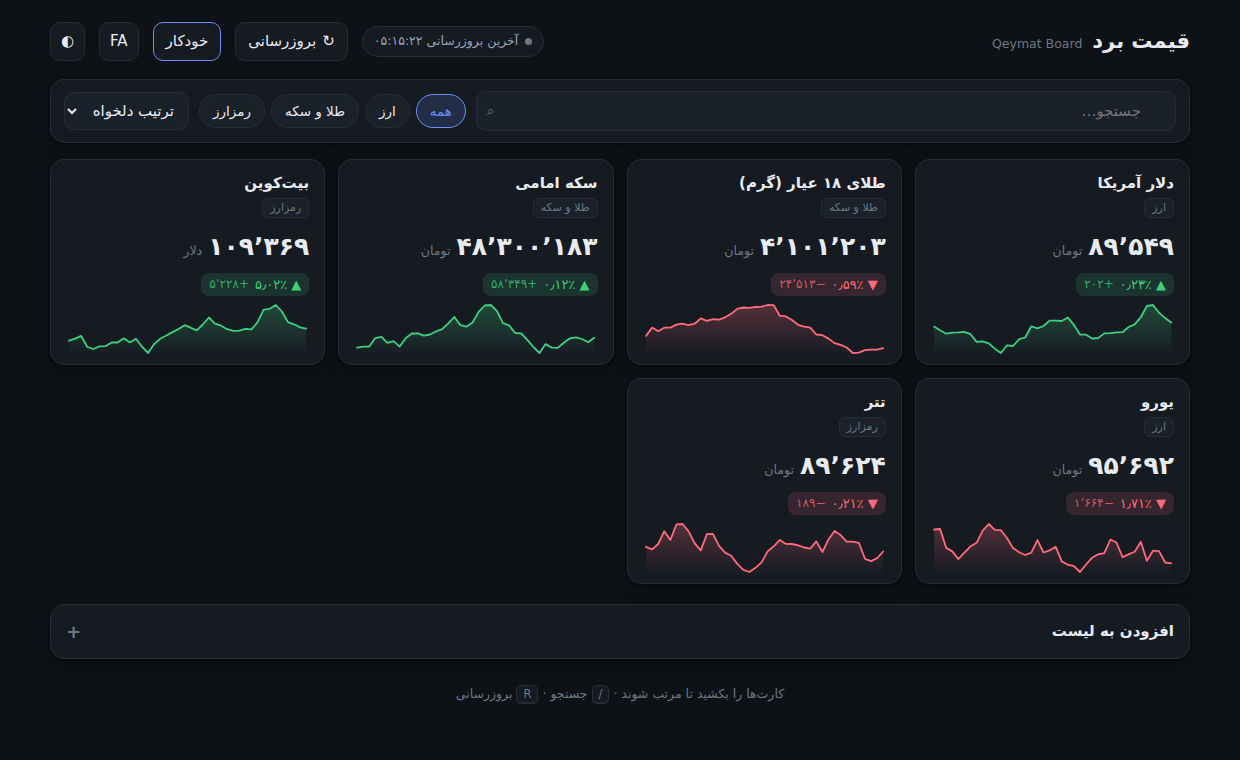
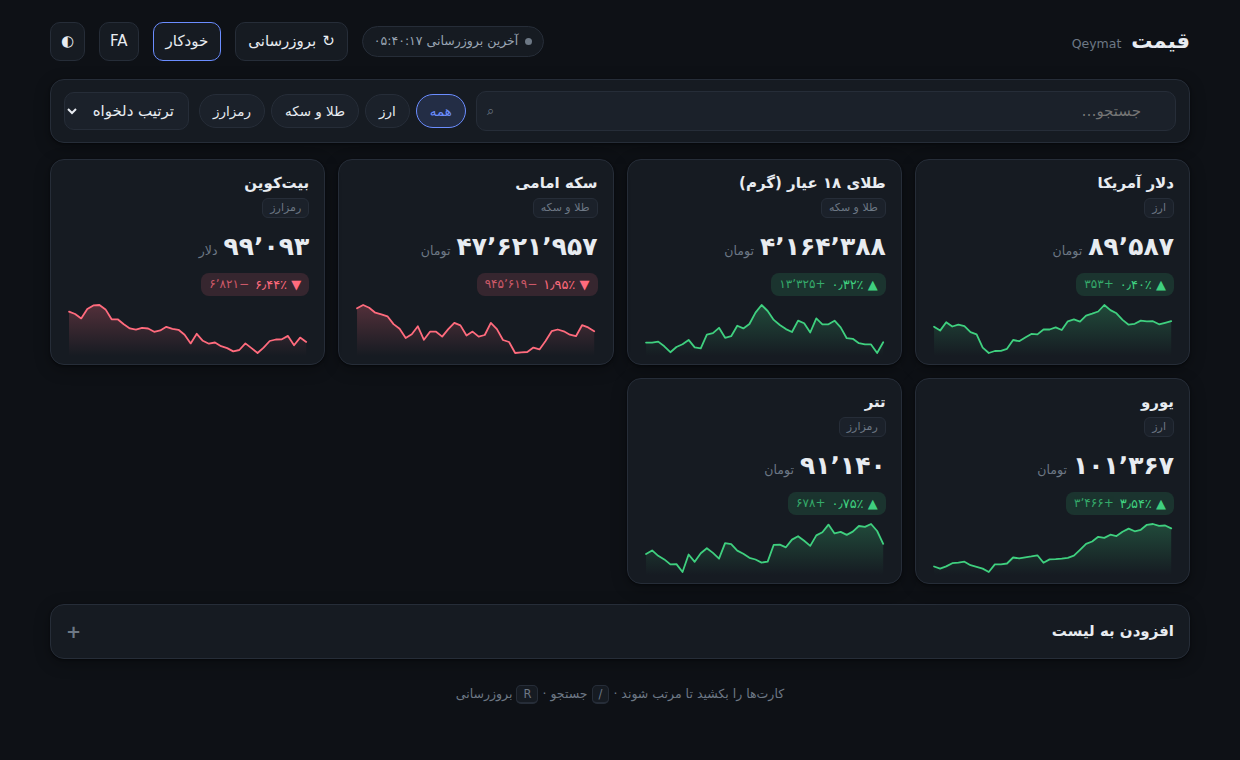
Make the board usable on touch, and align branding to «قیمت» / Qeymat
The card controls were revealed on :hover and sat at opacity 0, which
means that on a touch screen the remove button was invisible and
unreachable. Reordering had the same problem from the other direction:
HTML5 drag events never fire on touch, so the only way to arrange the
board was a pointer.

Under @media (hover: none) the controls are now always visible, tap
targets are 40x40, and reordering is offered as explicit up/down buttons
that move an asset within the watchlist. Dragging is unchanged where a
real pointer exists, and the footer shows whichever hint applies rather
than advertising keyboard shortcuts to a phone.

Branding is now «قیمت» / Qeymat rather than the ad-hoc "Qeymat Board",
in the title, the header, and both language dictionaries.

Verified at 390x664 with a coarse pointer: hover:none matches, the
up/down controls render at 40x40, reorder and remove both work by tap,
state survives a reload, and there is no horizontal overflow. Desktop
behaviour re-checked in the same run — controls still rest at opacity 0
and the up/down buttons stay display:none. No console or page errors in
either mode.

diff --git a/qeymat-board/index.html b/qeymat-board/index.html
@@ -3,7 +3,7 @@
 <head>
 <meta charset="utf-8">
 <meta name="viewport" content="width=device-width, initial-scale=1">
-<title>قیمت برد — Qeymat Board</title>
+<title>قیمت — Qeymat</title>
 <style>
   :root{
     --bg:#f4f5f7; --panel:#ffffff; --panel-2:#fafbfc; --line:#e3e6ea;
@@ -104,12 +104,29 @@
     display:inline-block;margin-top:4px;font-size:11px;color:var(--ink-3);
     background:var(--panel-2);border:1px solid var(--line);border-radius:6px;padding:1px 7px;
   }
-  .card .remove{
-    margin-inline-start:auto;background:none;border:0;color:var(--ink-3);cursor:pointer;
-    font-size:19px;line-height:1;padding:2px 5px;border-radius:7px;opacity:0;transition:.15s;
+  .card .ctl{margin-inline-start:auto;display:flex;align-items:center;gap:2px}
+  .card .ctl button{
+    background:none;border:0;color:var(--ink-3);cursor:pointer;line-height:1;
+    border-radius:7px;transition:.15s;opacity:0;
   }
-  .card:hover .remove,.card .remove:focus{opacity:1}
+  .card .remove{font-size:19px;padding:2px 5px}
+  .card .mv{display:none;font-size:14px;padding:4px 6px}
+  .card:hover .ctl button,.card .ctl button:focus-visible{opacity:1}
   .card .remove:hover{color:var(--down);background:var(--down-soft)}
+  .card .mv:hover{color:var(--accent);background:var(--accent-soft)}
+
+  /* Touch / no-hover pointers: hover-revealed controls are unreachable, and
+     HTML5 drag never fires — so show the controls and offer ↑ ↓ instead. */
+  @media (hover: none){
+    .card .ctl button{opacity:.6}
+    .card .ctl button:active{opacity:1}
+    .card.reorderable .mv{display:inline-flex}
+    .card .ctl button{min-width:40px;min-height:40px;display:inline-flex;align-items:center;justify-content:center}
+    .card .mv{min-width:40px}
+    .btn,.chip{min-height:40px}
+    .desktop-only{display:none}
+  }
+  @media (hover: hover){ .touch-only{display:none} }
   .price{display:flex;align-items:baseline;gap:6px;font-variant-numeric:tabular-nums}
   .price .num{font-size:25px;font-weight:700;letter-spacing:-.02em}
   .price .unit{font-size:12.5px;color:var(--ink-3)}
@@ -154,8 +171,8 @@
 
   <header class="top">
     <div class="brand">
-      <h1 id="ttl">قیمت برد</h1>
-      <span class="sub" id="sub">Qeymat Board</span>
+      <h1 id="ttl">قیمت</h1>
+      <span class="sub" id="sub">Qeymat</span>
     </div>
     <div class="stamp"><span class="dot" id="dot"></span><span id="stamp" aria-live="polite">—</span></div>
     <button class="btn" id="refresh" title="R">↻ <span data-i="refresh">بروزرسانی</span></button>
@@ -181,9 +198,12 @@
   </details>
 
   <footer class="tip">
-    <span data-i="tip">کارتها را بکشید تا مرتب شوند</span> ·
-    <kbd>/</kbd> <span data-i="tipSearch">جستجو</span> ·
-    <kbd>R</kbd> <span data-i="tipRefresh">بروزرسانی</span>
+    <span class="desktop-only">
+      <span data-i="tip">کارتها را بکشید تا مرتب شوند</span> ·
+      <kbd>/</kbd> <span data-i="tipSearch">جستجو</span> ·
+      <kbd>R</kbd> <span data-i="tipRefresh">بروزرسانی</span>
+    </span>
+    <span class="touch-only" data-i="tipTouch">با دکمههای ↑ ↓ روی هر کارت ترتیب را تغییر دهید</span>
   </footer>
 </div>
 
@@ -217,20 +237,24 @@ const HISTORY_LEN = 40;
    ============================================================ */
 const T = {
   fa:{
-    brand:'قیمت برد', sub:'Qeymat Board', refresh:'بروزرسانی', auto:'خودکار',
+    brand:'قیمت', sub:'Qeymat', refresh:'بروزرسانی', auto:'خودکار',
     search:'جستجو…', addTitle:'افزودن به لیست', allin:'همهی موارد در لیست هستند',
     empty:'لیست خالی است — از پایین چیزی اضافه کنید',
     tip:'کارتها را بکشید تا مرتب شوند', tipSearch:'جستجو', tipRefresh:'بروزرسانی',
+    tipTouch:'با دکمههای ↑ ↓ روی هر کارت ترتیب را تغییر دهید',
+    moveUp:'انتقال به بالا', moveDown:'انتقال به پایین',
     groups:{ all:'همه', currency:'ارز', gold:'طلا و سکه', crypto:'رمزارز' },
     sorts:{ custom:'ترتیب دلخواه', name:'نام', changeDesc:'بیشترین رشد', changeAsc:'بیشترین افت' },
     units:{ toman:'تومان', usd:'دلار' }, pct:'٪',
     updated:'آخرین بروزرسانی', never:'هنوز بروزرسانی نشده', remove:'حذف',
   },
   en:{
-    brand:'Qeymat Board', sub:'قیمت برد', refresh:'Refresh', auto:'Auto',
+    brand:'Qeymat', sub:'قیمت', refresh:'Refresh', auto:'Auto',
     search:'Search…', addTitle:'Add to watchlist', allin:'Everything is on the board',
     empty:'Watchlist is empty — add something below',
     tip:'Drag cards to reorder', tipSearch:'search', tipRefresh:'refresh',
+    tipTouch:'Use the ↑ ↓ buttons on each card to reorder',
+    moveUp:'Move up', moveDown:'Move down',
     groups:{ all:'All', currency:'Currency', gold:'Gold & Coin', crypto:'Crypto' },
     sorts:{ custom:'Custom order', name:'Name', changeDesc:'Top gainers', changeAsc:'Top losers' },
     units:{ toman:'Toman', usd:'USD' }, pct:'%',
@@ -456,13 +480,17 @@ function cardHTML(id){
   const draggable = state.prefs.sort === 'custom';
 
   return `
-  <article class="card" data-id="${id}" ${draggable ? 'draggable="true"' : ''}>
+  <article class="card${draggable ? ' reorderable' : ''}" data-id="${id}" ${draggable ? 'draggable="true"' : ''}>
     <div class="row1">
       <div>
         <div class="title">${name(a)}</div>
         <span class="badge">${t().groups[a.group]}</span>
       </div>
-      <button class="remove" data-remove="${id}" title="${t().remove}" aria-label="${t().remove} ${name(a)}">×</button>
+      <div class="ctl">
+        <button class="mv" data-move="${id}|-1" title="${t().moveUp}" aria-label="${t().moveUp} ${name(a)}">↑</button>
+        <button class="mv" data-move="${id}|1"  title="${t().moveDown}" aria-label="${t().moveDown} ${name(a)}">↓</button>
+        <button class="remove" data-remove="${id}" title="${t().remove}" aria-label="${t().remove} ${name(a)}">×</button>
+      </div>
     </div>
     <div class="price">
       <span class="num" data-num="${id}">${fmtPrice(p.price, a.unit)}</span>
@@ -615,10 +643,23 @@ el.sort.addEventListener('change', e => {
 });
 
 el.grid.addEventListener('click', e => {
-  const b = e.target.closest('[data-remove]');
-  if (!b) return;
-  state.watchlist = state.watchlist.filter(id => id !== b.dataset.remove);
-  save(); renderGrid(); renderAdder();
+  const rm = e.target.closest('[data-remove]');
+  if (rm){
+    state.watchlist = state.watchlist.filter(id => id !== rm.dataset.remove);
+    save(); renderGrid(); renderAdder();
+    return;
+  }
+  // ↑ / ↓ reorder — the touch-reachable equivalent of dragging a card
+  const mv = e.target.closest('[data-move]');
+  if (mv){
+    const [id, step] = mv.dataset.move.split('|');
+    const from = state.watchlist.indexOf(id);
+    const to   = from + Number(step);
+    if (from > -1 && to >= 0 && to < state.watchlist.length){
+      state.watchlist.splice(to, 0, state.watchlist.splice(from, 1)[0]);
+      save(); renderGrid();
+    }
+  }
 });
 
 el.addBody.addEventListener('click', e => {

diff --git a/qeymat-board/README.md b/qeymat-board/README.md
@@ -1,14 +1,16 @@
-# Qeymat Board — قیمت برد
+# قیمت — Qeymat
+
+The price board (`qeymat-board/`).
 
 A single-file price watchlist. Open `index.html` in a browser — no build step, no
 install, no server. Works offline.
 
-![Qeymat Board](preview.png)
+![Qeymat](preview.png)
 
 ## What it does
 
-- **Watchlist** of currencies, gold/coin, and crypto. Add and remove assets, drag
-  cards to reorder.
+- **Watchlist** of currencies, gold/coin, and crypto. Add and remove assets, and
+  reorder them — by dragging with a mouse, or with the ↑ ↓ buttons on each card.
 - **Live prices** with a day-change figure (percent and absolute) and a 40-point
   sparkline per asset, coloured by direction.
 - **Auto-refresh** every 5 seconds, toggleable, plus a manual refresh.
@@ -21,6 +23,14 @@ install, no server. Works offline.
 
 Keyboard: <kbd>/</kbd> focuses search, <kbd>R</kbd> refreshes, <kbd>Esc</kbd>
 clears the search box.
+
+### Touch
+
+Controls that reveal on hover are unreachable on a touch screen, and HTML5 drag
+never fires there. So under `@media (hover: none)` the card controls are always
+visible at 40×40 tap targets, reordering moves to explicit ↑ ↓ buttons, and the
+footer shows the touch hint instead of the keyboard one. Verified at 390×664
+with no horizontal overflow.
 
 ## Where the prices come from
 
